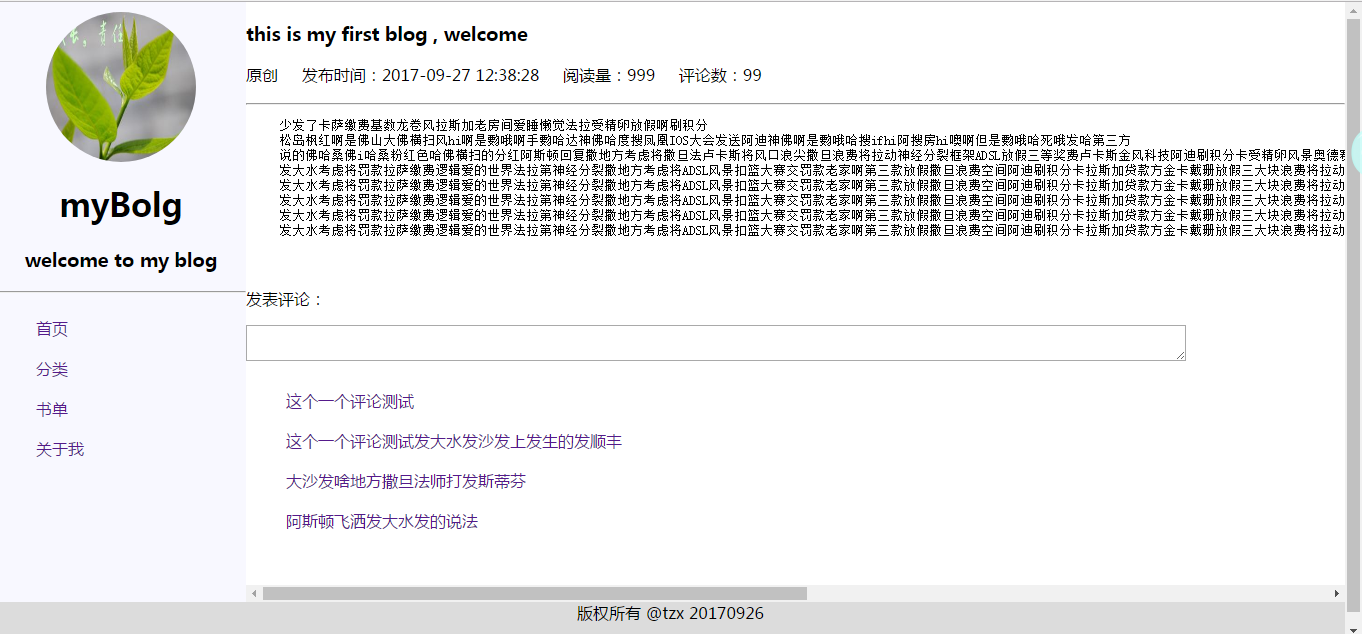
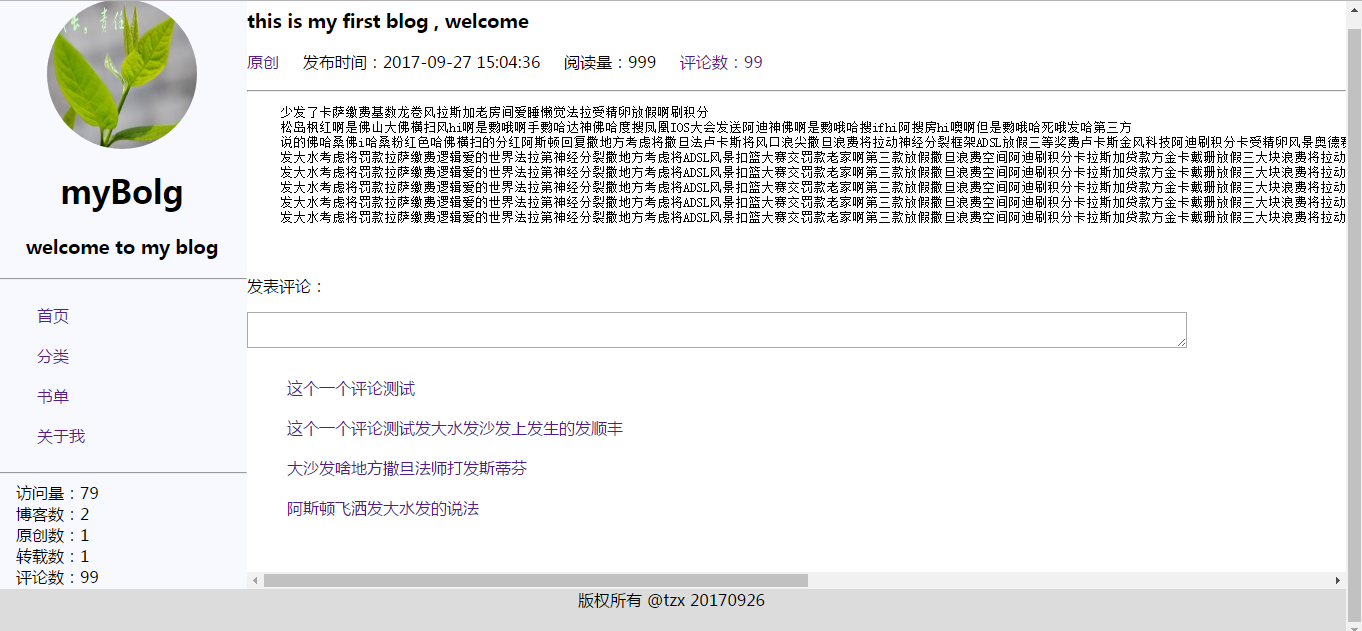
增加request监听器记录访问量

diff --git a/src/main/resources/templates/index.html b/src/main/resources/templates/index.html
@@ -80,6 +80,12 @@
               <li style="line-height:2.5"><a href="#">书单</a></li>
               <li style="line-height:2.5"><a href="#">关于我</a></li>
            </ul>
+           <hr/>
+              &nbsp;&nbsp;&nbsp;&nbsp;访问量：<font th:text="${readCounts}"></font><br/>
+              &nbsp;&nbsp;&nbsp;&nbsp;博客数：<font th:text="${blogCounts}"></font><br/>
+              &nbsp;&nbsp;&nbsp;&nbsp;原创数：<font th:text="${myCounts}"></font><br/>
+              &nbsp;&nbsp;&nbsp;&nbsp;转载数：<font th:text="${otherCounts}"></font><br/>
+              &nbsp;&nbsp;&nbsp;&nbsp;评论数：<font th:text="${commentCounts}"></font><br/>
         </div>
         <!--内容主区域-->
         <div class="main">
@@ -87,10 +93,10 @@
             <div class="title">
                <H3 th:text="${title}">this is my first blog</H3>
                <table >
-                  <tr th:text="${type}" ></tr>&nbsp;&nbsp;&nbsp;&nbsp;
+                  <a href="#"><tr th:text="${type}" ></tr></a>&nbsp;&nbsp;&nbsp;&nbsp;
                   <tr th:text="${date}"></tr>&nbsp;&nbsp;&nbsp;&nbsp;
                   <tr th:text="${readCount}"></tr>&nbsp;&nbsp;&nbsp;&nbsp;
-                  <tr th:text="${commentsCount}"></tr>
+                  <a href="#"><tr th:text="${commentsCount}"></tr></a>
                </table>
             </div>
             <hr/>

diff --git a/target/classes/templates/index.html b/target/classes/templates/index.html
@@ -80,6 +80,12 @@
               <li style="line-height:2.5"><a href="#">书单</a></li>
               <li style="line-height:2.5"><a href="#">关于我</a></li>
            </ul>
+           <hr/>
+              &nbsp;&nbsp;&nbsp;&nbsp;访问量：<font th:text="${readCounts}"></font><br/>
+              &nbsp;&nbsp;&nbsp;&nbsp;博客数：<font th:text="${blogCounts}"></font><br/>
+              &nbsp;&nbsp;&nbsp;&nbsp;原创数：<font th:text="${myCounts}"></font><br/>
+              &nbsp;&nbsp;&nbsp;&nbsp;转载数：<font th:text="${otherCounts}"></font><br/>
+              &nbsp;&nbsp;&nbsp;&nbsp;评论数：<font th:text="${commentCounts}"></font><br/>
         </div>
         <!--内容主区域-->
         <div class="main">
@@ -87,10 +93,10 @@
             <div class="title">
                <H3 th:text="${title}">this is my first blog</H3>
                <table >
-                  <tr th:text="${type}" ></tr>&nbsp;&nbsp;&nbsp;&nbsp;
+                  <a href="#"><tr th:text="${type}" ></tr></a>&nbsp;&nbsp;&nbsp;&nbsp;
                   <tr th:text="${date}"></tr>&nbsp;&nbsp;&nbsp;&nbsp;
                   <tr th:text="${readCount}"></tr>&nbsp;&nbsp;&nbsp;&nbsp;
-                  <tr th:text="${commentsCount}"></tr>
+                  <a href="#"><tr th:text="${commentsCount}"></tr></a>
                </table>
             </div>
             <hr/>

diff --git a/src/main/java/com/tzx/blog/listeners/TzxRequestListener.java b/src/main/java/com/tzx/blog/listeners/TzxRequestListener.java
@@ -1,0 +1,34 @@
+package com.tzx.blog.listeners;
+
+import javax.servlet.ServletRequestEvent;
+import javax.servlet.ServletRequestListener;
+import javax.servlet.annotation.WebListener;
+import javax.servlet.http.HttpServletRequest;
+
+import com.tzx.blog.commons.TzxData;
+
+/**
+ * request监听器，用来加访问量
+ * 
+ * @author tzx
+ *
+ */
+@WebListener
+public class TzxRequestListener implements ServletRequestListener {
+
+	@Override
+	public void requestDestroyed(ServletRequestEvent sre) {
+		// TODO Auto-generated method stub
+
+	}
+
+	@Override
+	public void requestInitialized(ServletRequestEvent sre) {
+		String url = ((HttpServletRequest) sre.getServletRequest()).getRequestURL().toString();
+		if (!url.contains(".")) {
+			// 每一个新的request，访问量+1
+			TzxData.readCounts += 1;
+		}
+	}
+
+}

diff --git a/src/main/java/com/tzx/blog/controllers/IndexController.java b/src/main/java/com/tzx/blog/controllers/IndexController.java
@@ -10,6 +10,8 @@ import org.springframework.stereotype.Controller;
 import org.springframework.ui.ModelMap;
 import org.springframework.web.bind.annotation.RequestMapping;
 
+import com.tzx.blog.commons.TzxData;
+
 /**
  * 首页
  * 
@@ -38,6 +40,11 @@ public class IndexController {
 		map.addAttribute("date", "发布时间：" + new SimpleDateFormat("yyyy-MM-dd HH:mm:ss").format(new Date()));
 		map.addAttribute("readCount", "阅读量：" + 999);
 		map.addAttribute("commentsCount", "评论数：" + 99);
+		map.addAttribute("readCounts", TzxData.readCounts);
+		map.addAttribute("blogCounts", 2);
+		map.addAttribute("myCounts", 1);
+		map.addAttribute("otherCounts", 1);
+		map.addAttribute("commentCounts", 99);
 
 		// return "welcome to tzxblog";
 		return "index";

diff --git a/src/main/java/com/tzx/blog/listeners/TzxContextListener.java b/src/main/java/com/tzx/blog/listeners/TzxContextListener.java
@@ -1,0 +1,20 @@
+package com.tzx.blog.listeners;
+
+import javax.servlet.ServletContextEvent;
+import javax.servlet.ServletContextListener;
+
+public class TzxContextListener implements ServletContextListener {
+
+	@Override
+	public void contextInitialized(ServletContextEvent sce) {
+		// TODO Auto-generated method stub
+
+	}
+
+	@Override
+	public void contextDestroyed(ServletContextEvent sce) {
+		// TODO Auto-generated method stub
+
+	}
+
+}

diff --git a/src/main/java/com/tzx/blog/TzxblogApplication.java b/src/main/java/com/tzx/blog/TzxblogApplication.java
@@ -2,8 +2,10 @@ package com.tzx.blog;
 
 import org.springframework.boot.SpringApplication;
 import org.springframework.boot.autoconfigure.SpringBootApplication;
+import org.springframework.boot.web.servlet.ServletComponentScan;
 
 @SpringBootApplication
+@ServletComponentScan
 public class TzxblogApplication {
 
 	public static void main(String[] args) {

diff --git a/src/main/java/com/tzx/blog/commons/TzxData.java b/src/main/java/com/tzx/blog/commons/TzxData.java
@@ -1,0 +1,12 @@
+package com.tzx.blog.commons;
+
+/**
+ * 模拟数据存储
+ * 
+ * @author tzx
+ *
+ */
+public class TzxData {
+	public static long readCounts = 0;
+
+}
